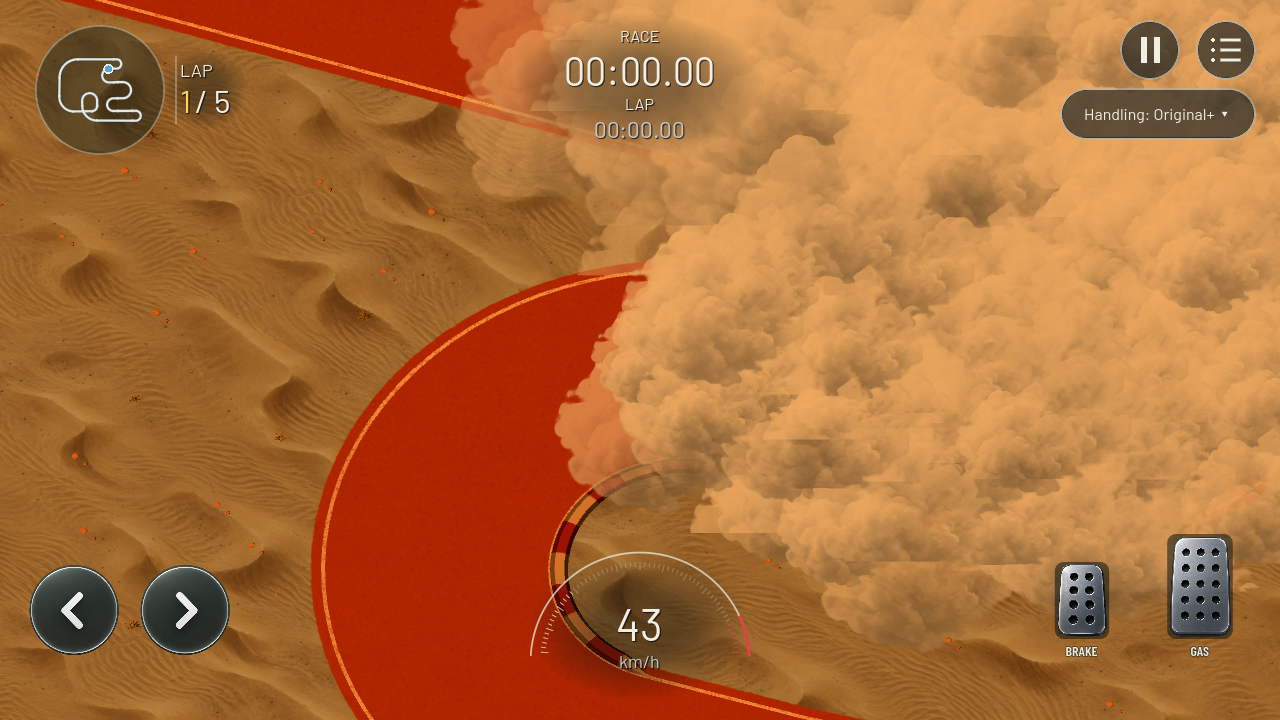
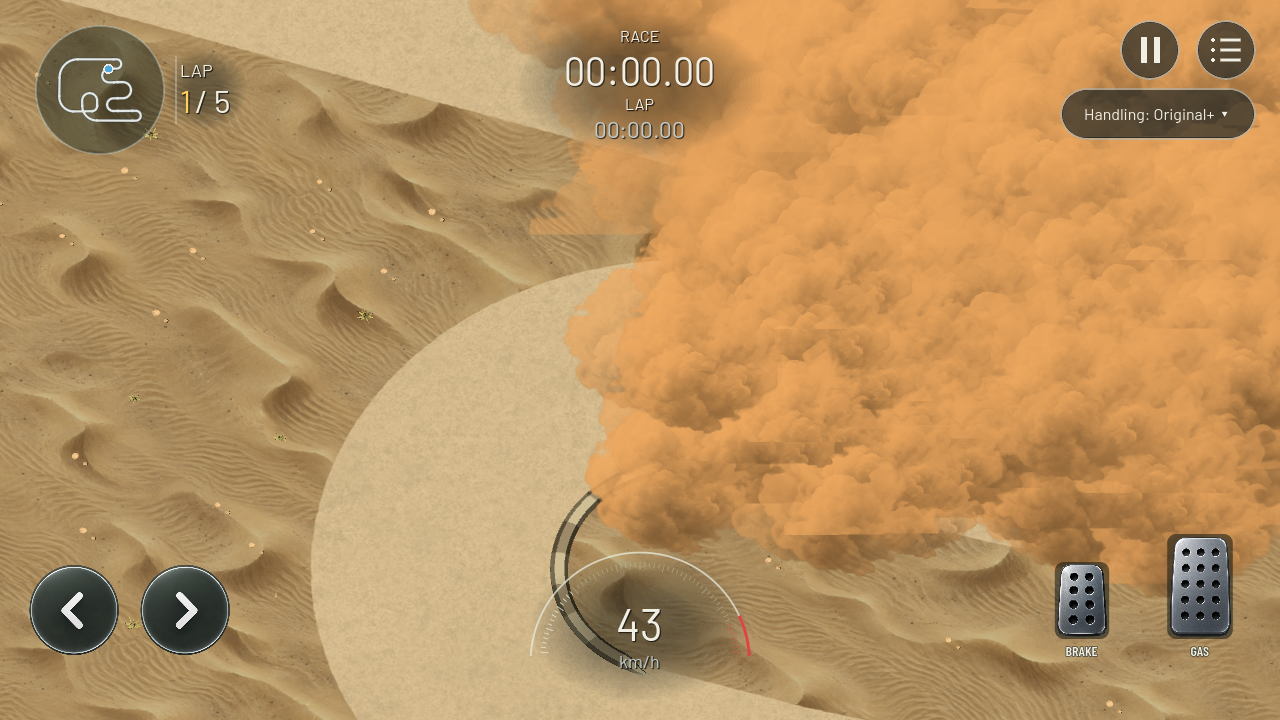
Match desert roads and kerbs to sand under normal daylight

diff --git a/docs/DESERT_DAYLIGHT.md b/docs/DESERT_DAYLIGHT.md
@@ -1,0 +1,21 @@
+# Desert road, stone kerbs and daylight
+
+2026-09-24, V02/V04/V05/Q01, visual kit 59. Owner accepted the dune ground and supplied desert-road references. This explicitly supersedes the previous sunset requirement; a later lighting pass is deferred.
+
+Desert road pigment is now muted sand/gravel with restrained baked mineral and broad variation. Desert creator roads omit painted white edge lines, retaining the timed finish line. Existing raised kerbs use alternating muted sandstone colours, preserving their shape, taper and physical behavior. Dunes retain their original artwork and relief; the previous sunset compensation is replaced with a daylight pigment balance. Desert now uses the same daylight angle, ambient light and sun as the Grass theme. Dust, traction, canonical cells, camera and all other biome palettes remain unchanged.
+
+The shared packed-road shader adds one baked texture lookup for broad variation. No new textures, geometry, runtime noise or lights are added; removing the desert edge-line mesh reduces one material draw for applicable creator roads. These implementation costs are not a measured phone performance claim.
+
+[Inspected gameplay capture](evidence/desert-daylight/road-and-kerbs.png). The original dune milestone comparisons are retained. The existing desert dust captures are refreshed with daylight; their legacy sunset-road filename remains for the capture harness.
+
+Changed files: `game/track/track_theme.gd` (palette and daylight), `surface_detail.gdshaderinc` (road grain and dune pigment), `native_track_visual.gd` (kit version, desert edge lines and kerb material), `game/tests/test_desert.gd` (replace superseded sunset assertion with requested daylight assertion), plus status/plan/instruction documents and evidence. No canonical physics files changed.
+
+Actual commands use `powershell -NoProfile -ExecutionPolicy Bypass -File scripts/dev.ps1` and pinned Godot 4.7.2:
+
+- `-Action CaptureDesert -Track track_3e26605a8a90165e`: 50 checks, 0 failures, including five-car deterministic replay, packed/loose traction, dust, biome isolation and material restoration. Two fewer material assertions than kit 58 because the edge-line material is absent.
+- `-Action TestSurfaces`: 50 checks, 0 failures.
+- `-Action TestBiomes`: 92 checks, 0 failures.
+- `-Action ExportAndroid -QuickValidation`: successful import/startup, 74 driving, 18 catalog and 22 menu checks; APK exported successfully.
+- Android SDK `adb install -r build/android/circuit01-debug.apk`: Success on attached DN2103, preserving player data.
+
+Logs are saved beside the screenshot. Existing build-tools 35.0.1 fallback and two ObjectDB shutdown leaks in driving tests remain. No device rendering/performance test was performed in this pass. Owner review of road/kerb appearance and daylight, phone motion and thermal performance remain outstanding. Reference photographs are guidance only and are not copied into assets.

diff --git a/docs/PHASE_0_PLAN.md b/docs/PHASE_0_PLAN.md
@@ -1,5 +1,7 @@
 # Phase 0: specification review and first slice
 
+2026-09-24 V02/V04/V05/Q01: kit 59 gives desert roads muted compacted sand/gravel, sandstone kerbs and no white edge stripes. Normal daylight supersedes the sunset request; dune pigment is retuned for daylight. Saved-track CaptureDesert 50, TestSurfaces 50 and TestBiomes 92 pass; Android quick export passes 74 driving, 18 catalog and 22 menu checks. Desktop screenshot inspected. See docs/DESERT_DAYLIGHT.md for device status and acceptance.
+
 2026-09-24 V02/V04/V05/Q01: kit 58 adds original dune/ripple sand artwork, baked slope lighting and sparse opaque dry scrub for desert ground. Roads, sunset, dust, camera and canonical handling remain unchanged. Desert 31, saved-track capture 52, surfaces 50, grass 15, biomes 92 and shader profile 928 checks pass. Desktop screenshots inspected; fresh Android APK exported and installed. DN2103 was locked, so phone profile timed out with 0/5 stages; diagnostics cleaned up, performance acceptance pending. See docs/DESERT_DUNES.md.
 
 2026-09-23 V02/V04/V05/Q01: kit 57 adds original meadow blade/clump artwork and shaded opaque tufts instead of restoring old leafy grass. Fresh APK installed on DN2103; 18 comparison stages completed. Ajorata median unchanged; repeated Storm +0.20?0.24 ms (1.2?1.4%), lower p95. First Storm pass showed device-wide slowdown affecting original grass too; all results retained. Desktop/device evidence and acceptance limits: docs/GRASS_PERFORMANCE.md.

diff --git a/DEVELOPMENT_STATUS.md b/DEVELOPMENT_STATUS.md
@@ -1,5 +1,7 @@
 # Development status
 
+2026-09-24 V02/V04/V05/Q01: kit 59 gives desert roads muted compacted sand/gravel, sandstone kerbs and no white edge stripes. Normal daylight supersedes the sunset request; dune pigment is retuned for daylight. Saved-track CaptureDesert 50, TestSurfaces 50 and TestBiomes 92 pass; Android quick export passes 74 driving, 18 catalog and 22 menu checks. Desktop screenshot inspected. See docs/DESERT_DAYLIGHT.md for device status and acceptance.
+
 2026-09-24 V02/V04/V05/Q01: kit 58 adds original dune/ripple sand artwork, baked slope lighting and sparse opaque dry scrub for desert ground. Roads, sunset, dust, camera and canonical handling remain unchanged. Desert 31, saved-track capture 52, surfaces 50, grass 15, biomes 92 and shader profile 928 checks pass. Desktop screenshots inspected; fresh Android APK exported and installed. DN2103 was locked, so phone profile timed out with 0/5 stages; diagnostics cleaned up, performance acceptance pending. See docs/DESERT_DUNES.md.
 
 2026-09-23 V02/V04/V05/Q01: kit 57 adds original meadow blade/clump artwork and shaded opaque tufts instead of restoring old leafy grass. Fresh APK installed on DN2103; 18 comparison stages completed. Ajorata median unchanged; repeated Storm +0.20?0.24 ms (1.2?1.4%), lower p95. First Storm pass showed device-wide slowdown affecting original grass too; all results retained. Desktop/device evidence and acceptance limits: docs/GRASS_PERFORMANCE.md.

diff --git a/AGENTS.md b/AGENTS.md
@@ -86,3 +86,6 @@ The owner authorizes removing random road cracks, baking surface detail and redu
 
 ## Desert sand and sunset override (2026-09-22)
 The owner requests desert roads to always be a distinct, more drivable compacted sand, with dense dust during ordinary driving that causes considerable obstruction and lingers. This explicitly supersedes the earlier brief/unobstructive dust art constraint for desert. Desert lighting uses a red-orange sunset and longer shadows. See docs/DESERT_SUNSET.md for implementation and acceptance limits.
+
+## Desert daylight and road override (2026-09-24)
+The owner accepted dune ground and requests reference-informed compacted desert roads and suitable kerbs. Normal daylight supersedes the red-orange sunset until a later lighting pass. Dust and canonical packed-sand driving remain unchanged. See docs/DESERT_DAYLIGHT.md.

diff --git a/docs/DESERT_SUNSET.md b/docs/DESERT_SUNSET.md
@@ -1,5 +1,7 @@
 # Desert compacted sand and sunset ? 2026-09-22
 
+2026-09-24 follow-up: [Desert daylight and road](DESERT_DAYLIGHT.md) supersedes sunset lighting, ground colour compensation and road/kerb appearance below.
+
 2026-09-24: [Dune ground update](DESERT_DUNES.md) replaces the loose-ground appearance; sunset, compacted road and dust behavior remain unchanged.
 
 Requirements: G01/G03 (surface handling), R01/R03/R07 (determinism/versioning), V02/V04/V05 (biome materials, dust and lighting), Q01 (validation). Owner request makes desert roads firm sand and deliberately permits lingering visibility obstruction, overriding the older brief/unobstructive dust guideline for this biome.

diff --git a/docs/DESERT_DUNES.md b/docs/DESERT_DUNES.md
@@ -1,5 +1,7 @@
 # Desert dunes and dry scrub — 2026-09-24
 
+2026-09-24 follow-up: [Desert daylight and road](DESERT_DAYLIGHT.md) supersedes sunset lighting, ground colour compensation and road/kerb appearance below.
+
 Requirements V02/V04/V05/Q01. Owner supplied desert photographs and requested sand with dunes, continuing the preceding mobile-performance constraint. Kit 58.
 
 ## Appearance and scope
